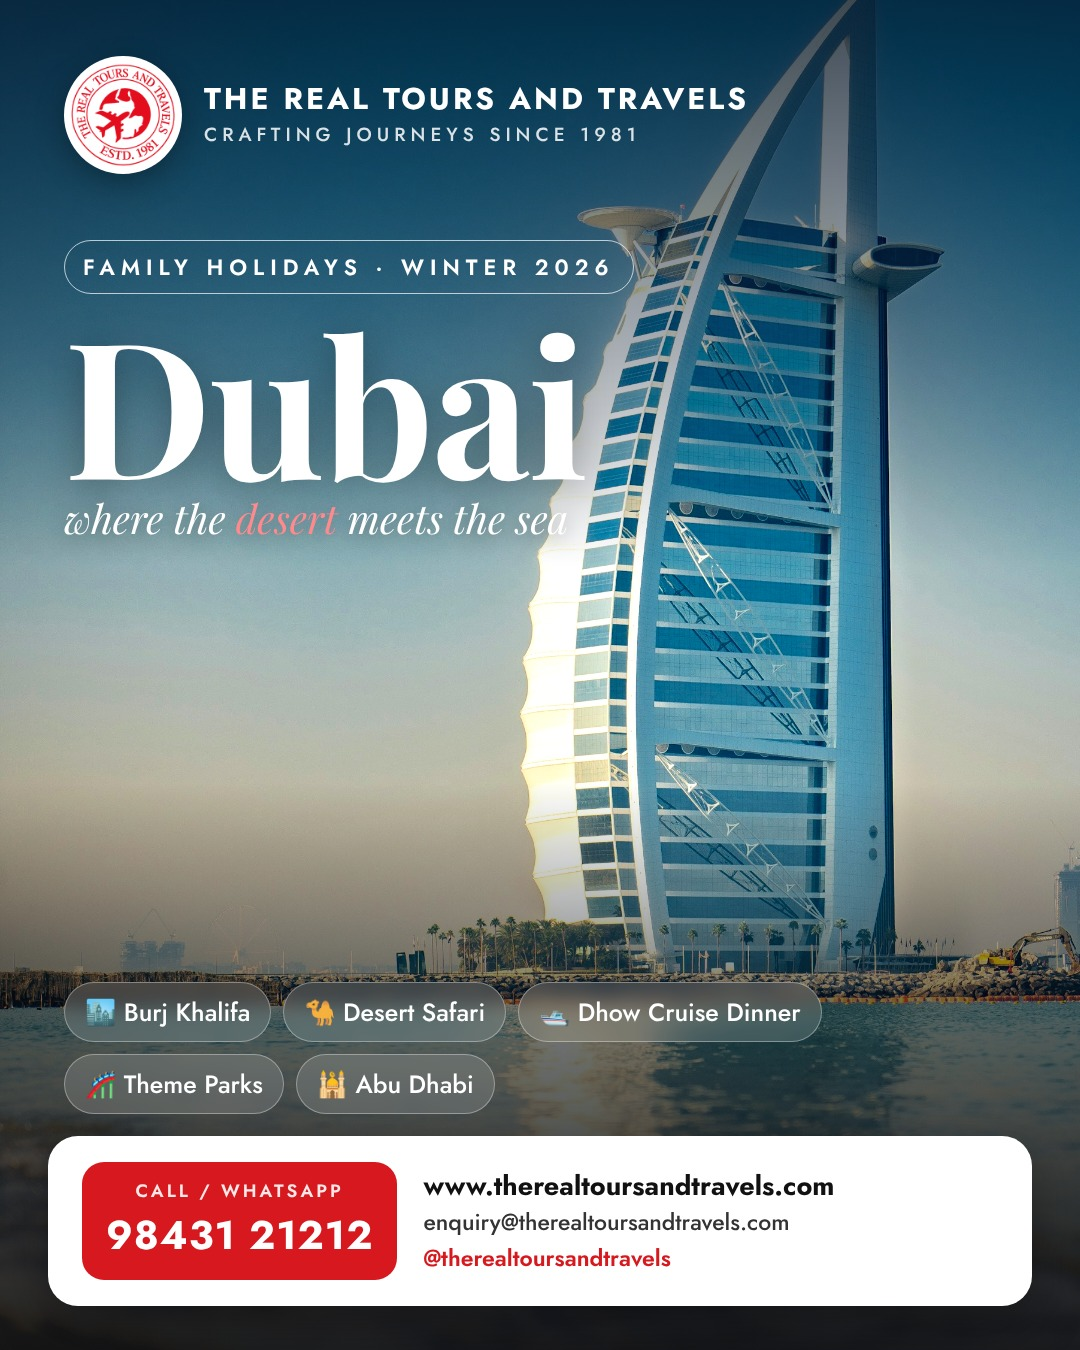
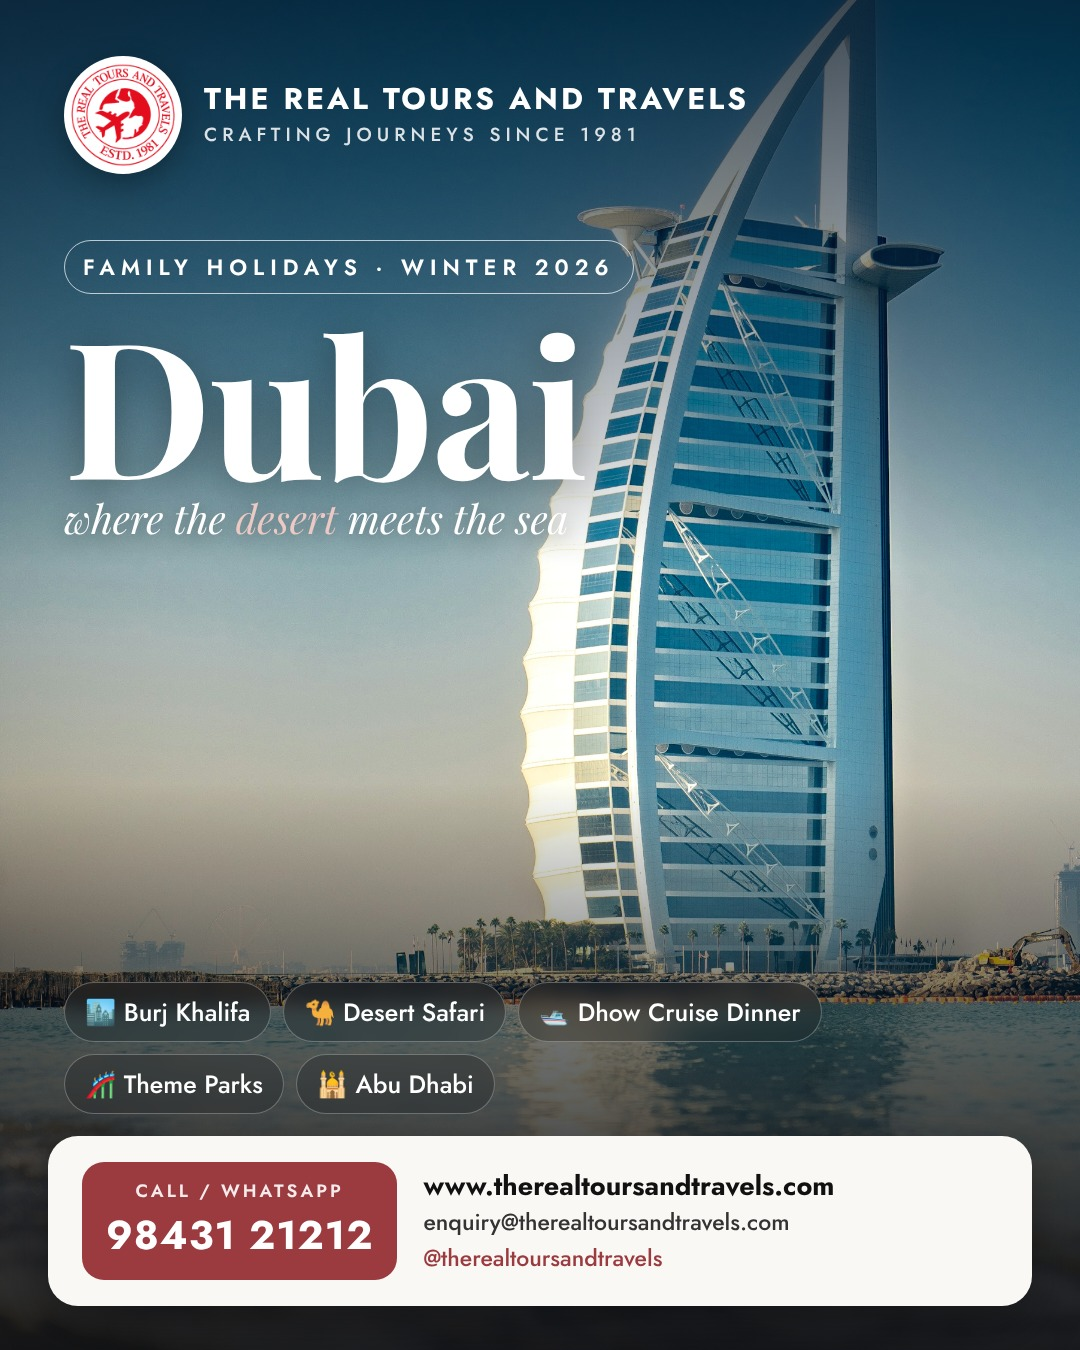
Softer, subtle colours for 24 Nov Dubai post and post template; review card template
Claude-Session: https://claude.ai/code/session_019XPhBFAhXdAPBxQJ53ybNz

diff --git a/posts/templates/review-card/card.html b/posts/templates/review-card/card.html
@@ -1,0 +1,34 @@
+<!doctype html><html><head><meta charset="utf-8"><style>
+@font-face{font-family:PF;src:url(fonts/playfair-display-latin-700-normal.woff2);font-weight:700}
+@font-face{font-family:PF;src:url(fonts/playfair-display-latin-400-italic.woff2);font-style:italic}
+@font-face{font-family:J;src:url(fonts/jost-latin-400-normal.woff2);font-weight:400}
+@font-face{font-family:J;src:url(fonts/jost-latin-500-normal.woff2);font-weight:500}
+@font-face{font-family:J;src:url(fonts/jost-latin-600-normal.woff2);font-weight:600}
+@font-face{font-family:J;src:url(fonts/jost-latin-700-normal.woff2);font-weight:700}
+*{margin:0;box-sizing:border-box}
+body{width:var(--w);height:var(--h);font-family:J;color:#2b2b2e;background:#faf8f5;position:relative;overflow:hidden}
+.frame{position:absolute;inset:34px;border:1px solid #e4ded6;border-radius:28px}
+.top{text-align:center;padding:84px 60px 0;position:relative}
+.seal{width:120px;height:120px;border-radius:50%;background:#fff;padding:8px;margin:0 auto 18px;border:1px solid #ece6df}.seal img{width:100%}
+.brand{font:600 26px J;letter-spacing:5px;color:#2b2b2e}.since{font:500 16px J;letter-spacing:6px;color:#8a8580;margin-top:6px}
+.rule{width:64px;height:2px;background:#b5333a;margin:34px auto 30px;opacity:.85}
+h1{font:700 60px/1.1 PF;color:#2b2b2e}h1 em{font:italic 400 60px PF;color:#9b3a3f}
+.stars{font-size:30px;letter-spacing:10px;margin-top:16px;color:#c9a9a6}
+.mid{text-align:center;padding:22px 80px 0;position:relative}
+.lead{font:400 25px/1.55 J;color:#6b6763;max-width:780px;margin:0 auto}
+.qrbox{display:inline-block;margin:30px auto 16px;padding:18px;border-radius:22px;background:#fff;border:1px solid #e4ded6}
+.qrbox img{width:var(--qr);height:var(--qr);display:block}
+.scan{font:600 22px J;color:#2b2b2e;letter-spacing:4px}
+.url{font:500 22px J;color:#8a8580;margin-top:8px}
+.steps{display:flex;justify-content:center;gap:16px;margin:28px auto 0;max-width:860px}
+.st{flex:1;background:#fff;border:1px solid #ece6df;border-radius:16px;padding:16px 12px;font:400 20px/1.35 J;color:#5b5753}.st b{display:block;font:700 30px PF;color:#9b3a3f}
+.foot{position:absolute;left:34px;right:34px;bottom:34px;border-top:1px solid #e4ded6;text-align:center;padding:24px 30px 30px;font:400 21px/1.7 J;color:#6b6763}
+.foot b{font:600 24px J;color:#2b2b2e}.foot span{color:#9b3a3f}
+</style></head><body><div class="frame"></div>
+<div class="top"><div class="seal"><img src="logo-512.png"></div><div class="brand">THE REAL TOURS AND TRAVELS</div><div class="since">CRAFTING JOURNEYS SINCE 1981</div><div class="rule"></div>
+<h1>Loved your trip?<br><em>Tell the world!</em></h1><div class="stars">★★★★★</div></div>
+<div class="mid"><p class="lead">Your review helps other families travel with confidence – and it means the world to our team.</p>
+<div class="qrbox"><img src="qr.png"></div><div class="scan">SCAN TO REVIEW US ON GOOGLE</div><div class="url">www.therealtoursandtravels.com/review</div>
+<div class="steps"><div class="st"><b>1</b>Scan the code with your phone camera</div><div class="st"><b>2</b>Tap the stars</div><div class="st"><b>3</b>Write a line about your trip &amp; post</div></div></div>
+<div class="foot"><b>Thank you for travelling with us!</b><br>📞 98431 21212 &nbsp;·&nbsp; enquiry@therealtoursandtravels.com &nbsp;·&nbsp; <span>@therealtoursandtravels</span></div>
+</body></html>

diff --git a/posts/templates/premium-post.html b/posts/templates/premium-post.html
@@ -8,7 +8,7 @@
 @font-face{font-family:J;src:url(fonts/jost-latin-700-normal.woff2);font-weight:700}
 *{margin:0;box-sizing:border-box}
 body{width:1080px;height:var(--h);overflow:hidden;font-family:J;color:#fff}
-.bg{position:absolute;inset:0;background:url(burj.jpg) var(--bx) var(--py)/var(--bs) no-repeat;filter:saturate(1.18) contrast(1.06)}
+.bg{position:absolute;inset:0;background:url(burj.jpg) var(--bx) var(--py)/var(--bs) no-repeat;filter:saturate(1) contrast(1.02)}
 .shade{position:absolute;inset:0;background:linear-gradient(180deg,rgba(6,22,40,.78) 0%,rgba(6,22,40,.35) 26%,rgba(6,22,40,0) 42%,rgba(6,22,40,0) 58%,rgba(10,14,20,.55) 74%,rgba(10,12,16,.92) 100%)}
 .top{position:absolute;left:64px;right:64px;top:var(--tt);display:flex;align-items:center;gap:22px}
 .seal{width:var(--ls);height:var(--ls);border-radius:50%;background:#fff;padding:7px;box-shadow:0 10px 30px rgba(0,0,0,.3)}
@@ -18,15 +18,15 @@ body{width:1080px;height:var(--h);overflow:hidden;font-family:J;color:#fff}
 .kick{display:inline-block;font:600 22px J;letter-spacing:6px;padding:10px 18px;border:1.5px solid rgba(255,255,255,.7);border-radius:999px}
 h1{font:700 var(--h1)/0.9 PF;letter-spacing:-2px;margin-top:22px;text-shadow:0 8px 40px rgba(0,0,0,.35)}
 h2{font:italic 400 var(--h2s)/1.15 PF;margin-top:8px;text-shadow:0 4px 20px rgba(0,0,0,.4)}
-h2 em{color:#ff8a8d;font-style:italic}
+h2 em{color:#ecc9c5;font-style:italic}
 .foot{position:absolute;left:48px;right:48px;bottom:44px}
 .chips{display:flex;flex-wrap:wrap;gap:12px;margin:0 16px 22px}
-.chip{font:500 25px J;padding:11px 20px;border-radius:999px;background:rgba(255,255,255,.14);border:1px solid rgba(255,255,255,.35);backdrop-filter:blur(10px)}
-.card{background:#fff;color:#222;border-radius:30px;padding:26px 34px;display:flex;align-items:center;gap:26px;box-shadow:0 20px 50px rgba(0,0,0,.35)}
-.cta{background:#D7191F;color:#fff;border-radius:22px;padding:16px 24px;text-align:center;flex:none}
+.chip{font:500 25px J;padding:11px 20px;border-radius:999px;background:rgba(20,20,24,.28);border:1px solid rgba(255,255,255,.28);backdrop-filter:blur(10px)}
+.card{background:#faf8f5;color:#2b2b2e;border-radius:30px;padding:26px 34px;display:flex;align-items:center;gap:26px;box-shadow:0 20px 50px rgba(0,0,0,.35)}
+.cta{background:#9b3a3f;color:#fff;border-radius:22px;padding:16px 24px;text-align:center;flex:none}
 .cta small{display:block;font:600 18px J;letter-spacing:3px;opacity:.9}.cta b{display:block;font:700 40px J;letter-spacing:1px;margin-top:2px}
 .info{font:500 23px/1.55 J;color:#333}.info b{font:700 27px J;color:#111;display:block}
-.tag{color:#D7191F;font-weight:600}
+.tag{color:#9b3a3f;font-weight:500}
 </style></head><body>
 <div class="bg"></div><div class="shade"></div>
 <div class="top"><div class="seal"><img src="logo-512.png"></div><div class="brand"><b>THE REAL TOURS AND TRAVELS</b><span>CRAFTING JOURNEYS SINCE 1981</span></div></div>

diff --git a/posts/templates/review-card/shot.py b/posts/templates/review-card/shot.py
@@ -1,0 +1,11 @@
+from playwright.sync_api import sync_playwright
+import pathlib
+P=pathlib.Path('card.html').resolve().as_uri()
+cfg={'review-card-a5':dict(w='1080px',h='1528px',qr='360px',dpr=1.62),'review-share':dict(w='1080px',h='1528px',qr='360px',dpr=1)}
+with sync_playwright() as p:
+    b=p.chromium.launch(executable_path='/usr/bin/google-chrome',args=['--no-sandbox'])
+    for k,v in cfg.items():
+        pg=b.new_page(viewport={'width':1080,'height':1528},device_scale_factor=v['dpr'])
+        pg.goto(P);pg.evaluate("v=>{for(const[k,x] of Object.entries(v))document.documentElement.style.setProperty('--'+k,x)}",{'w':v['w'],'h':v['h'],'qr':v['qr'],'z':'1'})
+        pg.wait_for_timeout(800);pg.screenshot(path=k+'.png');pg.close()
+    b.close()
